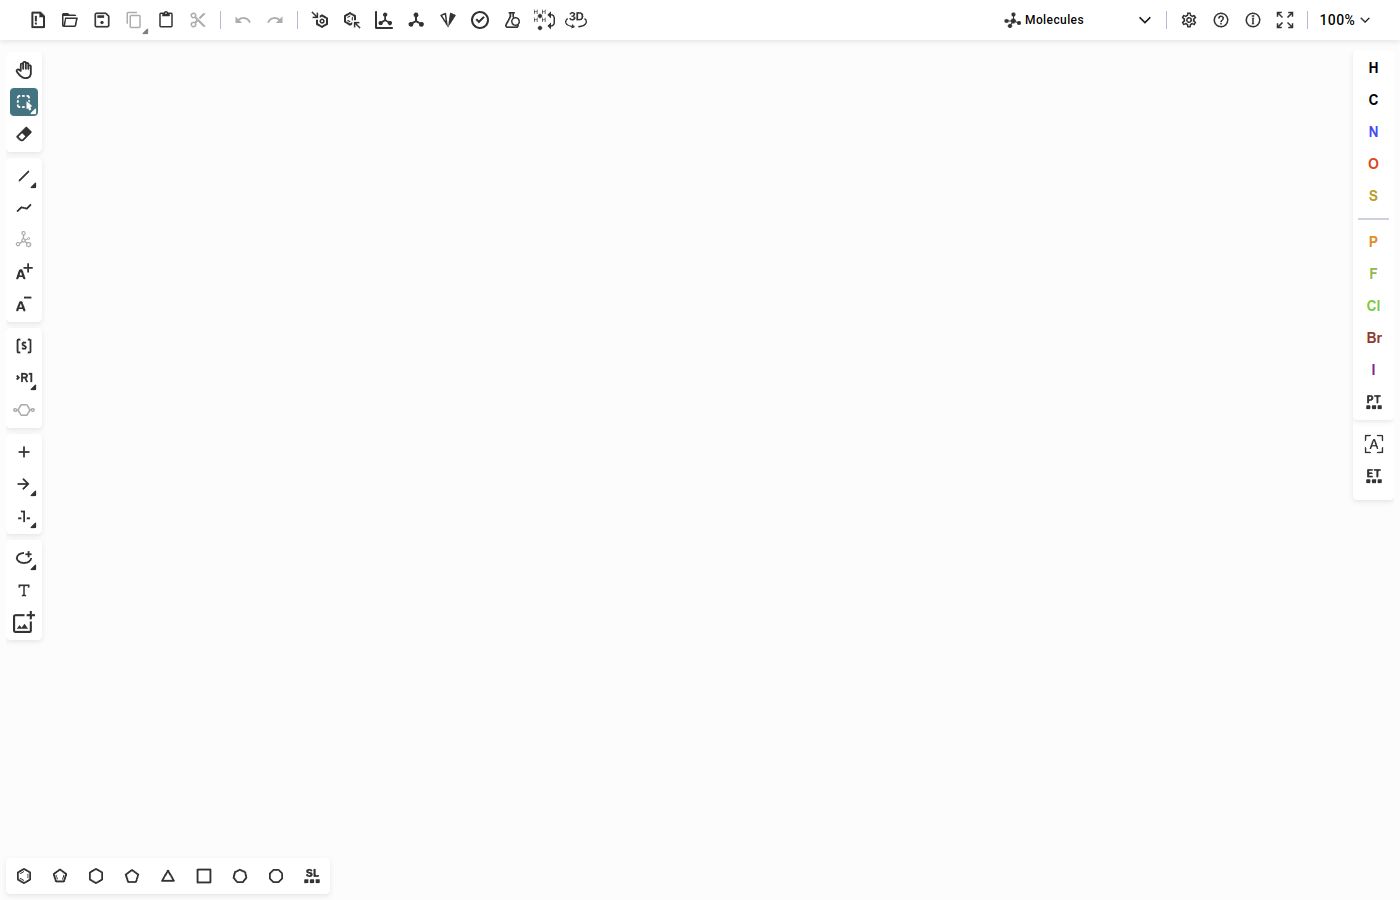
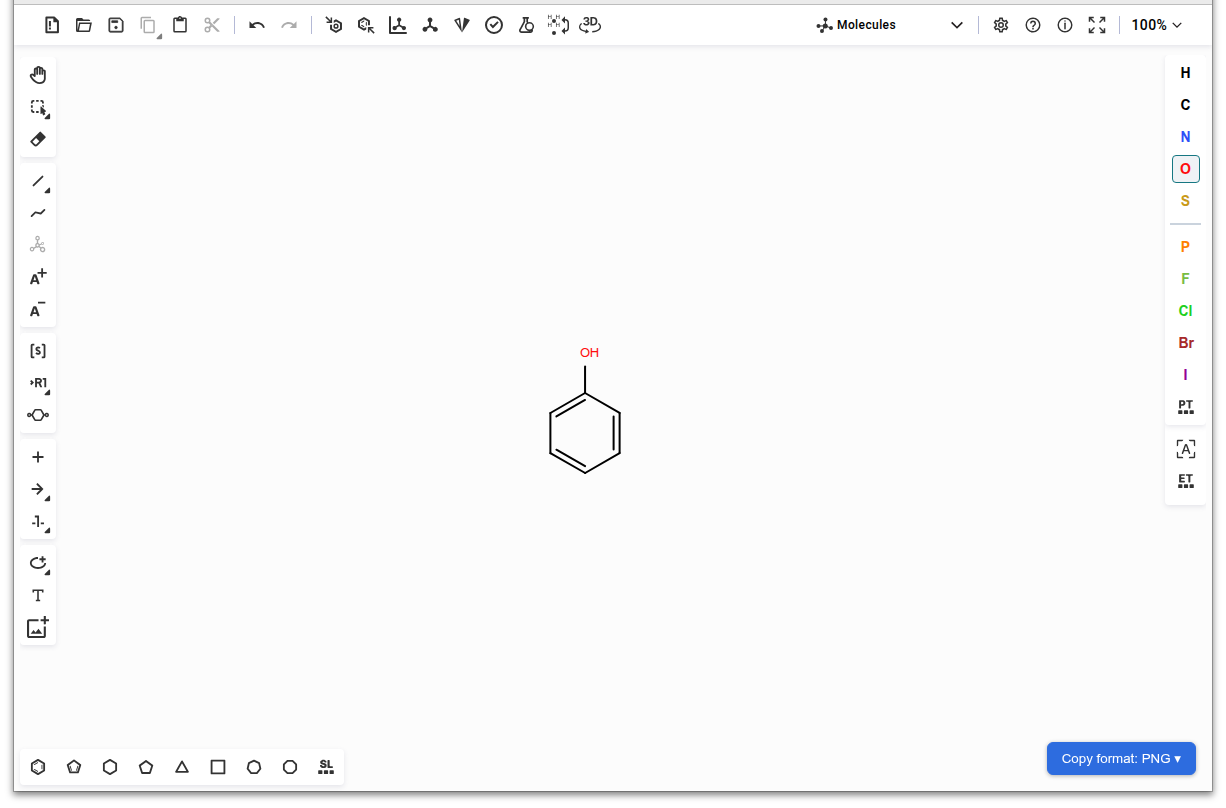
docs: refresh README screenshot, sync lockfile, add project context
Screenshot now reflects v3.18.0 UI including the new copy-format
selector. package-lock.json synced to match the electron/electron-builder
versions already bumped in package.json.

diff --git a/CLAUDE.md b/CLAUDE.md
@@ -1,0 +1,63 @@
+# Ketcher Desktop — Project Context
+
+## What is this project?
+
+**Ketcher Desktop** is a native desktop application wrapping [Ketcher](https://github.com/epam/ketcher) — the open-source chemical structure editor by EPAM Systems — in an Electron shell.
+
+- GitHub: https://github.com/katalystnord/ketcher-desktop
+- First release: v3.17.0-rc.1 (June 2026)
+- Built by: David, katalystnord.com / [email redacted]
+
+Ketcher is a widely used web-based chemical structure editor used by chemists to draw molecules and reactions. It runs in the browser and is embedded in many cheminformatics platforms. However, there was no standalone desktop application.
+
+Ketcher Desktop fills that gap: it runs fully offline, requires no server or browser, and installs like any other desktop app on Linux, Windows, and macOS.
+
+## Why it was built
+
+Chemists in David's network wanted a native chemical structure editor they could install and use without a browser, without an internet connection, and without setting up a backend server. Ketcher is the right tool for the job — it is capable, open-source (Apache 2.0), and actively maintained. Ketcher Desktop makes it accessible to users who are not comfortable running a web app.
+
+## Key features
+
+- Everything Ketcher offers out of the box: 2D structure drawing, 3D visualization, template library, stereochemistry, undo/redo, OCR, macromolecules editing
+- Runs fully offline — WASM-based standalone mode, no Indigo backend needed
+- Formats: MDL Molfile, RXN, InChI, ChemAxon Extended SMILES, CML
+- Correct-resolution clipboard copy: molecules paste into LibreOffice/Word at print quality (300 DPI PNG with embedded resolution metadata)
+- Tracks upstream Ketcher releases automatically via a daily CI sync
+- Available as AppImage and .deb (Linux), NSIS installer (Windows), DMG (macOS)
+- Package size: AppImage ~106 MB, .deb ~74 MB, Windows ~80 MB, macOS ~110 MB
+
+## Current status
+
+- v3.17.0-rc.1 released and published on GitHub Releases
+- Flathub submission in progress (waiting on GitHub account age restriction for PR)
+- Builds are unsigned (SmartScreen / Gatekeeper warnings on Win/Mac expected)
+- Auto-sync CI keeps the submodule up to date with epam/ketcher master daily
+
+## Announcement context
+
+David has just drafted an email to the EPAM Ketcher team announcing the project. The next step is writing a **LinkedIn post** to announce Ketcher Desktop publicly.
+
+### Tone and audience
+
+- David's LinkedIn audience is likely a mix of: cheminformatics professionals, computational chemists, software developers in life sciences, and general chemistry/pharma contacts
+- The post should be friendly and genuine, not overly promotional
+- Should credit EPAM / the Ketcher team clearly
+- Should invite people to try it, star the repo, or share with chemists who might benefit
+
+### What to include in the LinkedIn post
+
+- What Ketcher Desktop is and why it exists
+- That it is free and open source
+- A link to the GitHub repo
+- A thank-you to the EPAM Ketcher team
+- A call to action (try it, share it, give feedback)
+
+### What to avoid
+
+- Overly technical jargon (WASM, Electron internals, etc.)
+- Making it sound like a commercial product — it is a side project / open-source contribution
+- Being too long — LinkedIn posts work best under ~150 words
+
+---
+
+*This file provides context for writing announcement copy. For technical/coding context used by Claude Code, see the memory files in `.claude/`.*